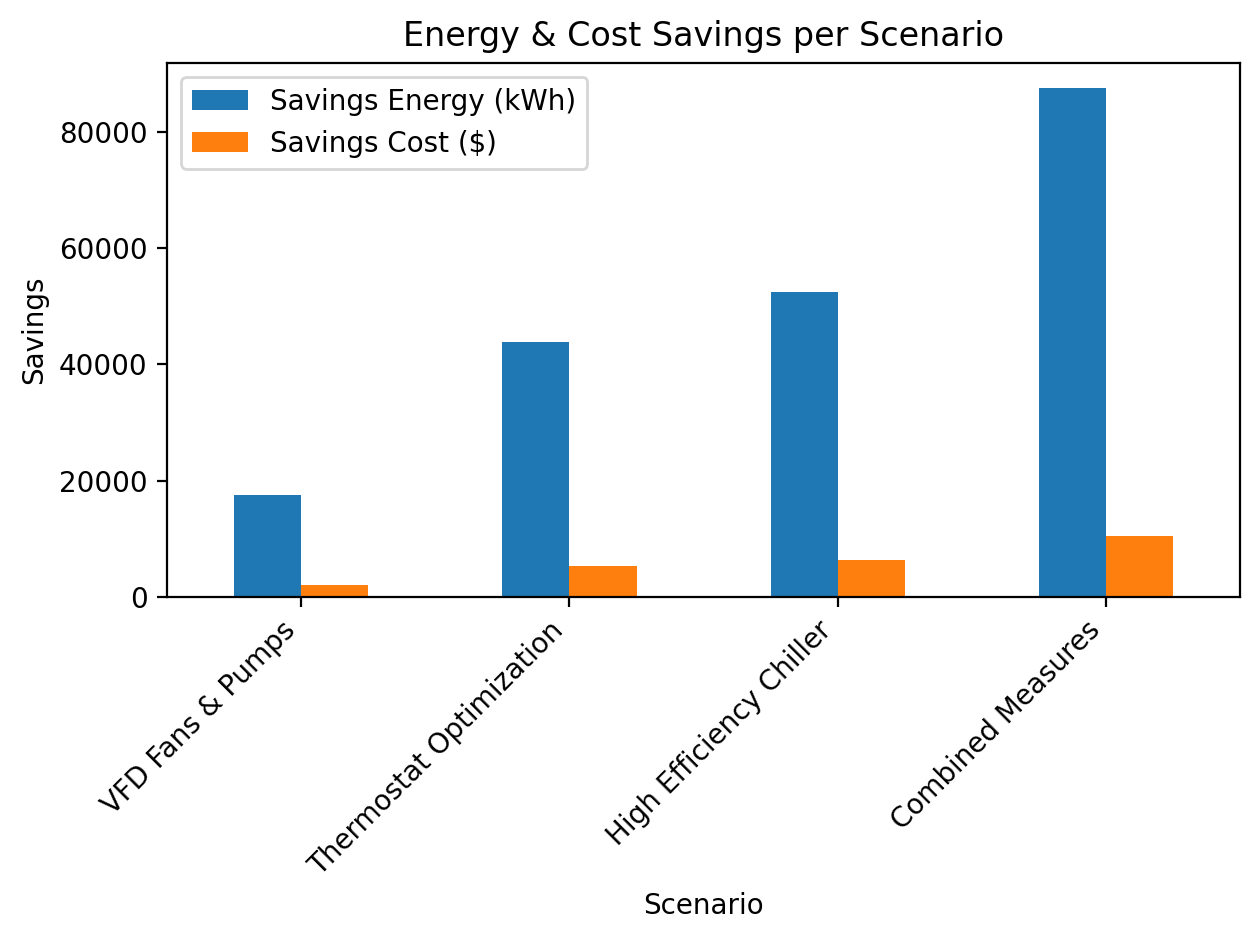
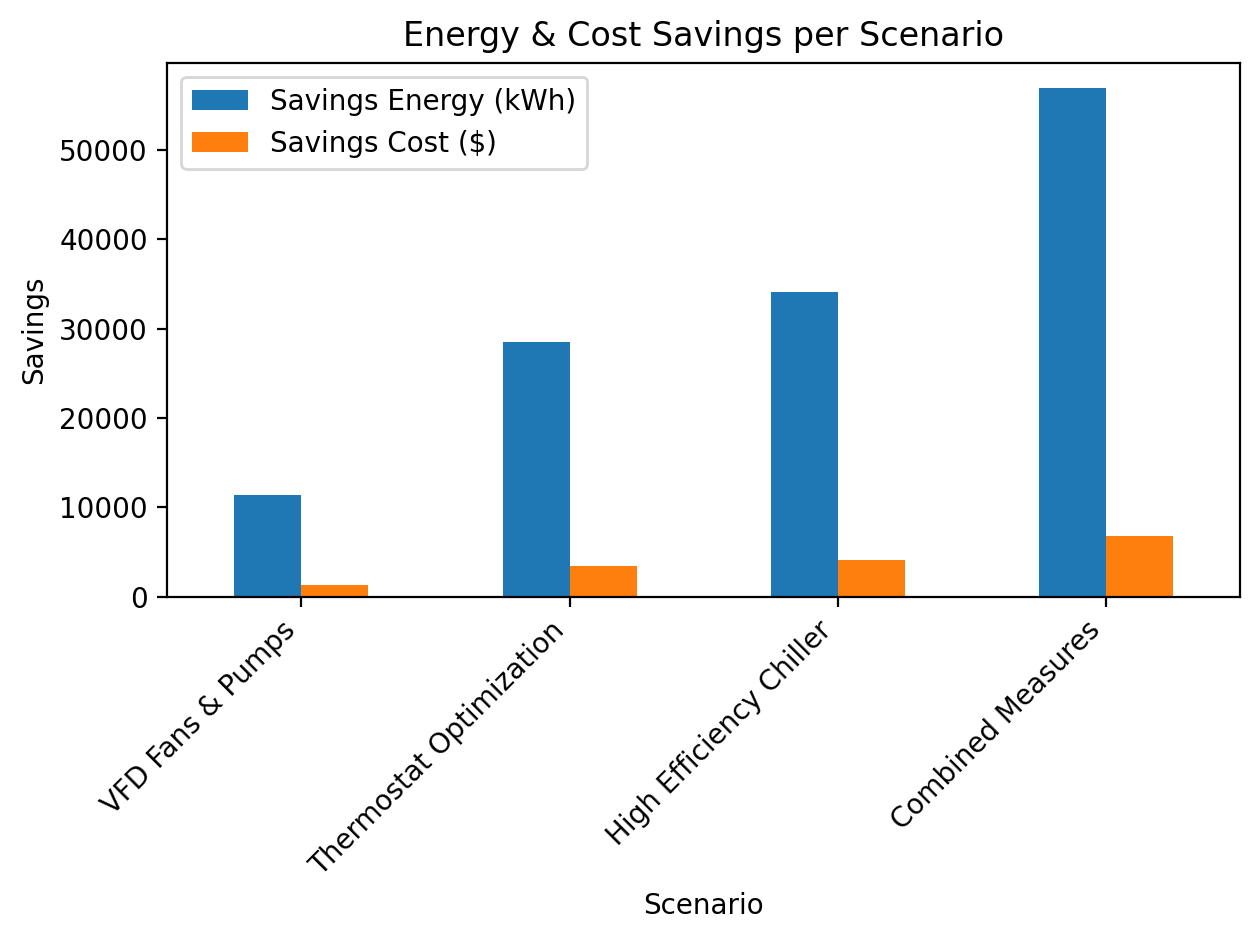
Updated seasonal load profile for realistic Ottawa climate + added result plots

diff --git a/simulation.py b/simulation.py
@@ -20,12 +20,37 @@ def simulate_hvac(components, hourly_load):
 
 def generate_hourly_load(days=365):
     """
-    Generates an hourly HVAC load profile for a year.
-    Combines daily sinusoidal variation + seasonal factor.
+    Generates a realistic hourly HVAC load profile for Ottawa, Canada.
+    - Peak cooling in mid-July (summer)
+    - Higher heating demand in winter
     """
-    daily_variation = np.sin(np.linspace(0, 2*np.pi, 24)) * 0.3 + 1
-    hourly_load = np.tile(daily_variation, days)
-    # Seasonal variation (summer peak)
-    seasonal_factor = 1 + 0.2 * np.sin(np.linspace(0, 2*np.pi, days))
-    seasonal_factor_hourly = np.repeat(seasonal_factor, 24)
-    return hourly_load * seasonal_factor_hourly
+    import numpy as np
+    
+    hours = days * 24
+    hour_of_year = np.arange(hours)
+    
+    # Daily variation (higher during daytime)
+    daily_variation = 0.8 + 0.4 * np.sin(2 * np.pi * (hour_of_year % 24) / 24 - np.pi/2)
+    
+    # Seasonal variation - More realistic for Ottawa
+    # Peak cooling around day 200 (mid-July)
+    day_of_year = hour_of_year / 24
+    seasonal_cooling = np.sin(2 * np.pi * (day_of_year - 200) / 365)   # Peak in summer
+    
+    # Cooling load is stronger in summer
+    cooling_factor = 0.6 + 0.8 * np.maximum(0, seasonal_cooling)
+    
+    # Heating load is stronger in winter (inverse of cooling)
+    heating_factor = 0.6 + 0.7 * np.maximum(0, -seasonal_cooling)
+    
+    # Combine both (total HVAC load)
+    total_load = daily_variation * (cooling_factor * 0.7 + heating_factor * 0.6)
+    
+    # Add some random noise for realism
+    noise = 1 + 0.08 * np.random.randn(hours)
+    total_load = total_load * noise
+    
+    # Normalize so average load factor is reasonable (~0.6-0.7)
+    total_load = total_load / total_load.mean() * 0.65
+    
+    return total_load

diff --git a/visualization.py b/visualization.py
@@ -1,22 +1,36 @@
-# visualization.py
 import matplotlib.pyplot as plt
 import pandas as pd
+import os
+
+# Create results folder if it doesn't exist
+os.makedirs('results', exist_ok=True)
 
 def plot_hourly_energy(hourly_baseline, hourly_scenarios, scenario_names):
-    plt.figure(figsize=(12,6))
-    plt.plot(hourly_baseline, label="Baseline", alpha=0.7)
+    plt.figure(figsize=(12, 6))
+    plt.plot(hourly_baseline, label="Baseline", alpha=0.7, linewidth=2)
     for hourly, name in zip(hourly_scenarios, scenario_names):
         plt.plot(hourly, label=name, alpha=0.7)
+    
     plt.title("Hourly HVAC Energy Consumption (kW)")
     plt.xlabel("Hour of Year")
     plt.ylabel("Power (kW)")
     plt.legend()
+    plt.grid(True, alpha=0.3)
     plt.tight_layout()
+    
+    # Save the plot
+    plt.savefig("results/hourly_energy.png", dpi=200, bbox_inches='tight')
     plt.show()
 
+
 def plot_savings(df_results):
-    df_results.plot(x='Scenario', y=['Savings Energy (kWh)', 'Savings Cost ($)'], kind='bar', figsize=(10,6))
+    plt.figure(figsize=(10, 6))
+    df_results.plot(x='Scenario', y=['Savings Energy (kWh)', 'Savings Cost ($)'], kind='bar')
     plt.title("Energy & Cost Savings per Scenario")
     plt.ylabel("Savings")
+    plt.xticks(rotation=45, ha='right')
     plt.tight_layout()
+    
+    # Save the plot
+    plt.savefig("results/savings_comparison.png", dpi=200, bbox_inches='tight')
     plt.show()
